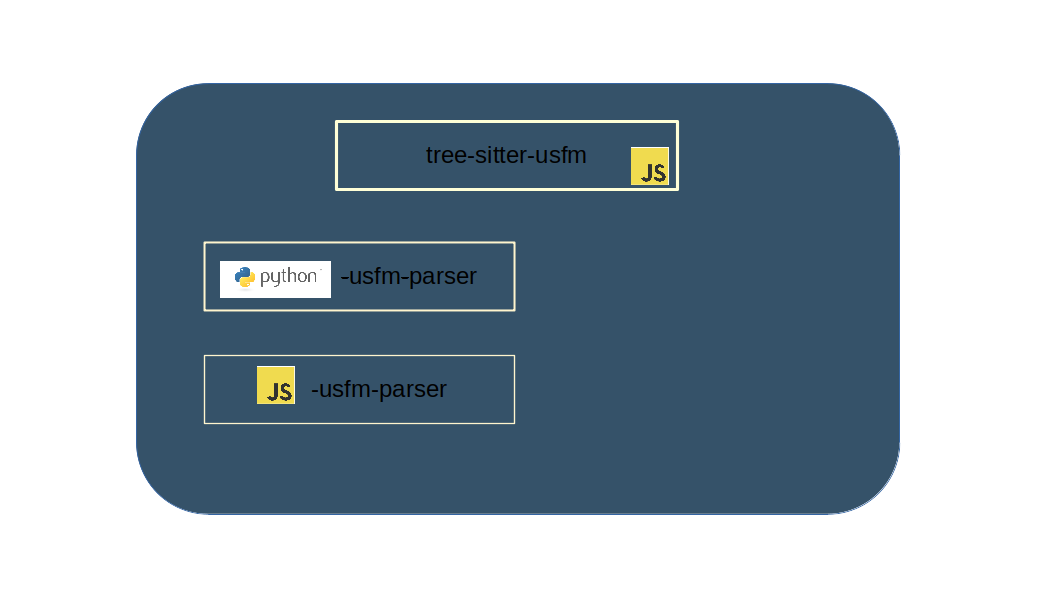
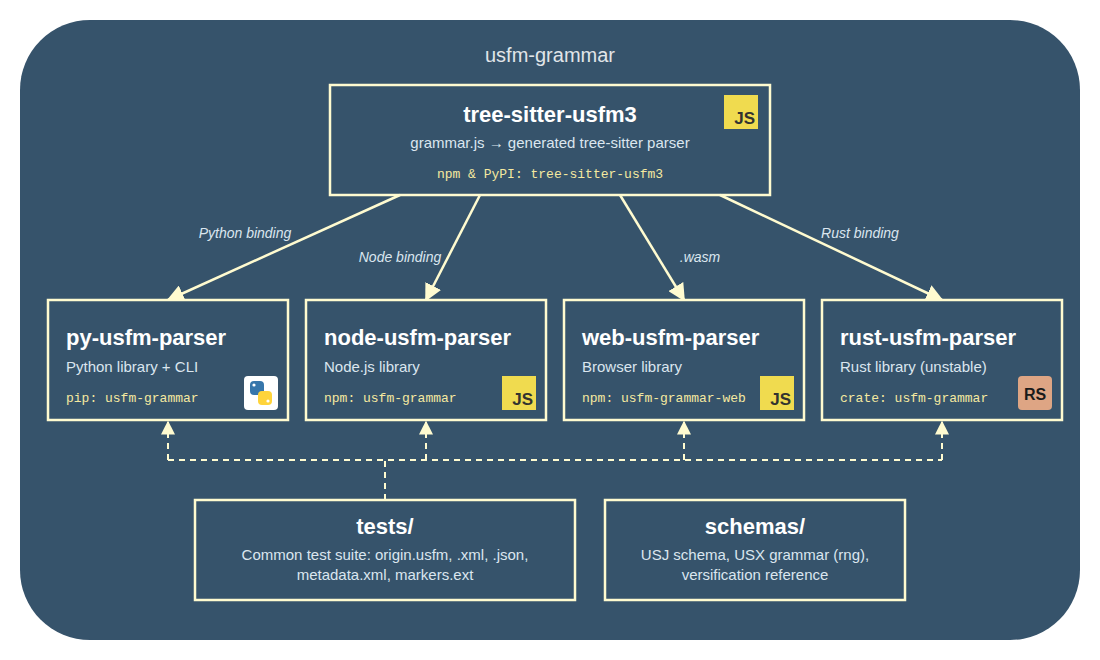
Docs n schema update (#439)
* update architecture.md and components diagram

* Add a context file for the AI to refer

* Test the usx.rng update and document results

diff --git a/docs/usx-schema-compliance-report.md b/docs/usx-schema-compliance-report.md
@@ -1,0 +1,142 @@
+# USX schema compliance: before vs after 303d1f0
+### Dated: Oct 9, 2026
+
+**Commit under test:** `303d1f0` "Update vendored usx.rng from tcdocs 3.1.2 (#427)". This commit only replaces `schemas/usx.rng`; no converter code changes. "Before" is `303d1f0^:schemas/usx.rng` (July 2023 copy, 1,689 lines). "After" is `303d1f0:schemas/usx.rng` (tcdocs 3.1.2 @ b76e9f0, 2,161 lines). Both runs use the same converter outputs.
+**Date:** 2026-10-09 · **Branch:** docs-n-schema-update (working tree)
+
+## Method
+
+| Item | Detail |
+|---|---|
+| Test cases | 275 directories under `tests/` that have an `origin.usfm` |
+| Documents validated | 1,814 per schema: 270 test-suite USX files (269 `origin.xml` + 1 `origin.usx`) and 6 × ~257 generated files |
+| Generated USX | For each module (Python `py-usfm-parser/src`, Node `node-usfm-parser/src`, Web `web-usfm-parser/src` with wasm): **USFM→USX** (`origin.usfm` → parse → `to_usx`/`toUSX`) and **USJ→USX** (`origin.json` → USJ→USFM → parse → USX). A `markers.ext` file is passed in when the test case has one. Conversion runs with `ignore_errors=True` so that invalid inputs also produce output. |
+| Validators | **Jing** 20241231 (reference RelaxNG implementation) and **lxml/libxml2** (what the pytest suite uses). They gave the same verdict on all 3,628 document×schema checks. Error messages below are from Jing; lxml's are too vague to diagnose. |
+| Populations | "Valid USFM" = the suite's own positive set (`metadata.xml` `validated` plus the override list in `py-usfm-parser/tests/__init__.py`): 186 cases. "Invalid" = the other 89 (negative tests). The headline numbers use only valid inputs with a clean (error-free) conversion. |
+
+## 1. Headline: valid-USFM cases
+
+| Producer | Input | Validated | Pass BEFORE | Pass AFTER | AFTER, ignoring ext-marker-only failures¹ | Fixed by commit | Regressed by commit |
+|---|---|---|---|---|---|---|---|
+| Test suite | origin.xml | 182 | 157 (86.3%) | **166 (91.2%)** | 178 (97.8%) | 11 | 2 |
+| Python | USFM→USX | 186 | 154 (82.8%) | **161 (86.6%)** | 173 (93.0%) | 9 | 2 |
+| Python | USJ→USX | 184² | 152 (82.6%) | **158 (85.9%)** | 170 (92.4%) | 8 | 2 |
+| Node | USFM→USX | 186 | 154 (82.8%) | **162 (87.1%)** | 174 (93.5%) | 10 | 2 |
+| Node | USJ→USX | 184² | 151 (82.1%) | **159 (86.4%)** | 171 (92.9%) | 10 | 2 |
+| Web | USFM→USX | 186 | 154 (82.8%) | **162 (87.1%)** | 174 (93.5%) | 10 | 2 |
+| Web | USJ→USX | 184² | 151 (82.1%) | **159 (86.4%)** | 171 (92.9%) | 10 | 2 |
+
+¹ The only failures are `\z*`, `\s5` or `\k-s/\k-e` styles. The 3.1.2 schema has no extension or z-namespace provision, so these files can never validate whatever the converter does.
+² `specExamples/extended/bookIntroductions3` has no `origin.json`. For `special-cases/empty-attributes`, USJ→USFM writes `lemma=""ആകാശം""` (unescaped quotes), so the USFM it produces doesn't parse. This happens in all three modules.
+
+**Node and Web give identical results in every cell.** Python is one file behind on each path because of finding **D** below.
+
+## 2. What the schema update changed (all populations)
+
+### Fixed: invalid before, valid after (13 cases)
+| Case | Producers | Error under the old schema |
+|---|---|---|
+| advanced/figureInNote | all 7 | `figure` not allowed in a note |
+| biblica/CategoriesOnNotes | origin, node, web (py still fails, see D) | `category` attribute on `note` |
+| biblica/CrossRefWithPipe | origin, node×2, web×2, py USFM | `href` attribute (`\xt` link) |
+| bugfixes/new-marker-ipc, -ta, -wl | all 7 | new 3.1 styles (`ipc`, `ta`, `wl`) |
+| specExamples/footnote | all 7 | `efe` not in `Footnote.style.enum` (the #423 blocker) |
+| usfmjsTests/chunk_footnote | all 7 | text not allowed here |
+| usfmjsTests/ts, ts_2 | all 7 | `ms` (`\ts`) not allowed at that position |
+| bugfixes/tcc | origin.xml | `tcc` cell style |
+| advanced/periph *(invalid)* | origin.xml | periph style |
+| usfmjsTests/usfm-body-testF *(invalid)* | USFM→USX in all 3 | `ms` placement |
+
+### Regressed: valid before, invalid after (8 cases)
+| Case | Suite says | Producers | Error under the new schema | Assessment |
+|---|---|---|---|---|
+| paratextTests/NoErrorsShort | valid³ | all 7 | `usx` incomplete: missing required `chapter` | The schema is stricter now. The input is only `\id` and `\usfm`. Expected, and noted in the commit message. |
+| special-cases/empty-book | valid³ | all 7 | same | same |
+| mandatory/c | invalid | USFM→USX ×3 | missing `chapter` | Negative test; now correctly rejected |
+| paratextTests/ParaOutOfOrder | invalid | USFM→USX ×3 | `note` not allowed yet | Negative test |
+| specExamples/cross-ref | invalid | node, web USFM | `style` invalid | Negative test |
+| usfmjsTests/missing_chapters | invalid | node, web USFM | `book@code` pattern | Negative test |
+| usfmjsTests/tstudio | invalid | USFM→USX ×3 | `number="091"` fails `[1-9][0-9]*` | Negative test (leading zeros) |
+| introductions/bad/test1 | invalid | origin.xml | `style` invalid | Negative test |
+
+³ The commit message says these are `validated=fail` in metadata, but the suite's override handling puts them in the positive set. The pytest schema test would therefore count them as failures. Mark them expected-fail or move them to the negative set.
+
+**Net result: the commit is a clear improvement.** All 8 regressions are inputs the newer spec correctly rejects (no `\c`, leading-zero numbers, out-of-order markers). None are converter regressions.
+
+## 3. What still fails after the update: valid-USFM cases, by root cause
+
+The useful test here is whether the reference `origin.xml` passes. If `origin.xml` passes and our output fails, the bug is ours. If both fail, the problem is in the test data or the spec.
+
+| # | Root cause | Cases | Py | Node | Web | origin.xml | Owner |
+|---|---|---|---|---|---|---|---|
+| A | `\z*` custom markers, `\zaln-s/e`, `\k-s/e`, `\s5` styles not in the schema enums | 13 | ✗ | ✗ | ✗ | ✗ (12) | Spec limitation / non-standard test data |
+| **B** | **`vid` written on every `<row>`; schema (and origin.xml) put it on `<table>`** | 5 | ✗ | ✗ | ✗ | ✓ | **Converter bug, all 3 modules** |
+| **C** | **`<para style="rem">` / `<para style="lit">` nested inside the previous `<para>`** | 3 | ✗ | ✗ | ✗ | ✓ / n/a | **Converter bug, all 3 modules** |
+| **D** | **`<ref style="ref" loc=…>`: schema forbids `style` on `ref`** | 2 | ✗ | ✓ | ✓ | ✓ | **Python bug** |
+| E | `<list>` wrapper element (list milestones) is not in the schema | 1 | ✗ | ✗ | ✗ | ✗ | Test data / proposed feature |
+| F | `\vid\|h="…"` is emitted as `h` attribute on `<para>`; the schema only allows `h` on `<ms style="vid">` | 1 | ✗ | ✗ | ✗ | ✗ | Converter and test data both need review |
+| G | Book with no chapter (`\id` + `\usfm` only) | 2 | ✗ | ✗ | ✗ | ✗ | Expected (see ³) |
+| **H** | **`altnumber="3 "` (trailing space) on USJ→USX** | 1 | ✓ | ✗ | ✗ | ✓ | **JS bug (node + web)** |
+
+### Details and evidence
+
+**B. Table `vid` on rows** (`specExamples/table`, `bugfixes/tcc`, `bugfixes/thc`, `bugfixes/empty-table-cell`, `paratextTests/MissingColumnInTable`)
+```xml
+<!-- ours (all 3 modules) -->
+<table><row style="tr" vid="MAT 136:12-83">…</row><row style="tr" vid="MAT 136:12-83">…
+<!-- origin.xml / schema (Table has optional @vid; row allows only @style) -->
+<table vid="MAT 136:12-83"><row style="tr">…
+```
+Jing: `found attribute "vid", but no attributes allowed here`. This is the largest real converter defect: about 2.7% of valid cases.
+
+**C. Paragraph nested inside paragraph** (`bugfixes/rem_with_char`, `bugfixes/custom_markers`, `specExamples/character`)
+```usfm
+\p
+\rem comment \nd Jesus \nd* to \em test \em*.
+```
+becomes `<para style="p"><para style="rem">comment …</para>…`. The same happens to `\lit` after verse text. Jing: `element "para" not allowed here`. The output is structurally wrong, not just a style naming issue. The likely cause is in the shared grammar/tree shape, since all three generators emit it.
+
+**D. Python only: `ref@style`.** [usx_generator.py:490](../py-usfm-parser/src/usfm_grammar/usx_generator.py#L490) has `ref_xml_node.set("style", "ref")`. Node/Web `usxGenerator.js` don't set it, and origin.xml doesn't have it. Removing that line makes `biblica/CategoriesOnNotes` and `biblica/CrossRefWithPipe` pass, which brings Python level with Node/Web.
+
+**H. JS only: altnumber whitespace** (`specExamples/chapter-verse`, USJ path). JS USJ→USFM writes `\va 3 \va*` with a space before the closing marker. Python writes `\va 3\va*`. The JS USX generator then keeps the space, so the output gets `altnumber="3 "`, which fails the verse-number pattern. The fix belongs in the JS USJ→USFM writer, and ideally the USX generator should trim too.
+
+**F. `\vid` with `h`.** The input `\vid|h="Mark" ref="MRK 4:26"\*` becomes `<para style="s1" h="Mark" vid="MRK 4:26">`. In 3.1.2, `Milestone.style.enum` declares `vid` with `usfm:propattribs="ref h?"`. Spec review needed: either keep it as `<ms style="vid" ref="…" h="…"/>` or drop `h` when folding it into `para@vid`. origin.xml has the same issue.
+
+**E. `<list>` element.** Both origin.xml and our output wrap list items in `<list>…</list>`. The 3.1.2 schema has no such element: `element "list" not allowed anywhere`.
+
+**A. Extension markers.** The 3.1.2 RNG has closed style enums and no z-namespace pattern (`grep` finds no `z` pattern). Affected: `\zaln-s/e` (24 cases across all populations), `\k-s/e` (6), `\s5` (27, mostly negative tests), and the `\z…` markers in `custom_markers` and `specExamples/milestone` (`\zms`). These cannot pass schema validation unless the spec adds an extension mechanism, or we filter or transform z-markers on USX export.
+
+## 4. Invalid-USFM (negative) cases, for reference
+
+| Producer | Input | Validated | Pass BEFORE | Pass AFTER |
+|---|---|---|---|---|
+| Test suite | origin.xml | 87 | 32 | 32 |
+| Python | USFM→USX | 87 | 57 | 55 |
+| Python | USJ→USX | 64 | 36 | 36 |
+| Node | USFM→USX | 79 | 51 | 47 |
+| Node | USJ→USX | 61 | 30 | 30 |
+| Web | USFM→USX | 79 | 51 | 47 |
+| Web | USJ→USX | 61 | 30 | 30 |
+
+These outputs are produced with `ignore_errors`, so schema failures here are mostly expected. Observations:
+- **Test-suite origin.xml files for negative tests use Paratext-only markup** (`status="invalid"`, `closed=` on `note`/`sidebar`, `<unmatched>` elements, `<verse>` with `eid` but no `sid`). These account for most `origin.xml` failures and are not USX 3.1.2.
+- Node/Web pass fewer here than Python (47 vs 55) because their `book@code`, `sid` and `eid` values can be invalid when `\id` is missing or misplaced (e.g. `advanced/periph`, `paratextTests/IdMarkerInMiddleOfBook`, `usfmjsTests/invalid`).
+- **Robustness gap: JS conversion crashes on error trees.** With `ignoreErrors=true`, Node and Web throw on 15 inputs. Python throws on only 4 (`NoErrorsEmptyBook` and `NoErrorsPartiallyEmptyBook`, both paths). JS-only throws: `advanced/nesting1`, `biblica/PublishingVersesNotClosed`, `paratextTests/CharStyleCrossesVerseNumber` (×2), `InvalidRubyMarkup` (×2), `MarkersMissingSpace`, `MissingRequiredAttributesReported` (×2), `usfmjsTests/acts-1-20.aligned.crammed.oldformat`, `acts_1_milestone.oldformat`. All are negative tests, but it's still a parity difference.
+
+## 5. Recommendations (by impact)
+
+1. **Fix B (table `vid`) in all three generators.** Move `vid` from each `<row>` to `<table>`. This fixes 5 valid cases (+2.7%) per module and path.
+2. **Fix C (nested `rem`/`lit` para).** Most likely in the grammar, since all three modules output the same shape. This fixes 3 cases and removes structurally wrong output.
+3. **Python: drop `style="ref"` on `<ref>`** ([usx_generator.py:490](../py-usfm-parser/src/usfm_grammar/usx_generator.py#L490)). This fixes 2 cases and gets Python to parity with Node/Web.
+4. **JS: stop writing a space before `\va*` (and `\vp*`, `\ca*`, `\cp*`) in USJ→USFM, and trim in the USX generator.**
+5. **Test-suite hygiene:** reclassify `NoErrorsShort` and `empty-book` as expected-fail for schema tests. Decide on spec-compliant shapes for `\vid|h` and `<list>`. Consider whether USX export should drop or encode `\z*`/`\zaln`, or whether the schema tests should skip them.
+6. If 1–4 are done, valid-case compliance for the generated output would be about 173–174/186 (93%). The remaining failures would all come from spec limitations or test data.
+
+## Reproducing
+
+1. Extract both schemas: `git show 303d1f0^:schemas/usx.rng > usx_before.rng` and `git show 303d1f0:schemas/usx.rng > usx_after.rng`.
+2. For each test directory with an `origin.usfm`, convert to USX in each module, passing in `markers.ext` when the directory has one:
+   - USFM→USX: `USFMParser(usfm, markers_ext=…).to_usx(ignore_errors=True)` in Python; `new USFMParser(usfm, null, null, null, null, ext).toUSX(true)` in Node and Web (Web needs `await USFMParser.init("./tree-sitter-usfm.wasm", "./tree-sitter.wasm")` first).
+   - USJ→USX: the same, but construct the parser from `origin.json` (`from_usj=` / the `fromUsj` argument).
+3. Validate every generated file and every `origin.xml` against both schemas with Jing (`java -cp jing.jar:xercesImpl.jar com.thaiopensource.relaxng.util.Driver usx_after.rng <files…>`) and/or lxml `etree.RelaxNG`.
+4. Classify each case as valid or invalid with `is_valid_usfm()` from `py-usfm-parser/tests/__init__.py`.

diff --git a/docs/architecture.md b/docs/architecture.md
@@ -5,29 +5,27 @@ This document describes the high-level architecture of usfm-grammar. This is int
 
 ## Bird's Eye View
 
-![usfm-grammar-ecosystem](./images/usfm-grammar-context.png)
-*context diagram*
-
-Usfm-grammar is a grammar implementation, modelling the [USFM](https://github.com/ubsicap/usfm) markup language, popularly used to represent the scripture(Bible) and meta-scripturual contents. It also include parsers and editor-plugins built on top on this grammar to be able to convert USFM to other formats like JSON, CSV, USX(XML counter part of USFM) etc or be able to do syntax highlighting, code folding etc on editors.
+Usfm-grammar is a grammar implementation, modelling the [USFM](https://docs.usfm.bible/usfm/3.1.2/index.html) markup language, popularly used to represent the scripture(Bible) and meta-scripturual contents. It also include parsers and editor-plugins built on top on this grammar to be able to convert USFM to other formats like USJ(JSON), CSV, USX(XML counter part of USFM) etc or be able to do syntax highlighting, code folding etc on editors.
 
 Implemented Using
 * Tree-sitter
 * Python
-* Javascript
+* Javascript: node and web
 
 [Tree-sitter](https://tree-sitter.github.io/tree-sitter/) is a parser generator. We model the USFM language in the Context-Free-Grammar, as required by it, and it can build parsers that can create syntax tree for a source USFM file. 
 
-![usfm-grammar-arch](./images/usfm-grammar-components.png)
-*Container diagram*
+![usfm-grammar components](images/usfm-grammar-components.png)
+
 
 ## Code Map
 
 This section talks briefly about various important directories and files. It would give you ideas on where to find things you are looking for, in the code base.
 
-### usfm-grammar/tree-sitter-usfm
+
+### usfm-grammar/tree-sitter-usfm3
 
 This module contain the grammar. Here we define and generate the grammar to be used by other modules and tools.
-This module is published on npm indivdually as `tree-sitter-usfm`.
+This module is published individually as `tree-sitter-usfm3` on npm and PyPI, which provide the node and python bindings of the grammar used by the parser modules.
 
 **grammar.js**: The file where we model the USFM language. Here we define the tokens, synatx rules and the structure of the output syntax-tree(AST).
 
@@ -39,7 +37,7 @@ This module is published on npm indivdually as `tree-sitter-usfm`.
 
 Useful commands while working in this module:
 ```
-cd ./tree-sitter-usfm
+cd ./tree-sitter-usfm3
 export PATH=$PATH:./node_modules/.bin #to be able to use the CLI
 
 tree-sitter generate #To re-generate the grammar after updation to grammar.js
@@ -47,11 +45,22 @@ tree-sitter test     # to run all test in test/corpus
 tree-sitter test --update # to update all test files with the current output
 ```
 
+### usfm-grammar/tests
+These test data is obtained from the test suite maintained by USFM/X committee in [this repo](https://github.com/usfm-bible/tcdocs). These test suite samples were originally compliant with the test suite in the USFM specs repo. Later more tests were added to the `bugfixes` submodule. For cases were the validity of the test case as given in the souce is not acceptable for us, it is over ridden in the python test module's `__init__.py` or node and web modules' `config.js`.
+
+A test directory, which is one unit of this test suite, contains the following files:
+
+- **origin.usfm**. This is the base USFM file to be processed.
+- **origin.xml**. This is the corresponding USX file.
+- **origin.json**. This is the USJ for the USFM and USX.
+- **metadata.xml**. This is the metadata file describing this test, including the validity(pass/fail).
+- **markers.ext**. Optionally in newly added test samples for user defined markers.
+
 ### usfm-grammar/py-usfm-parser
 
 This is a parser implemented to use the grammar to obtain syntax tree(AST) for a USFM file and then convert the AST to other formats via APIs(methods or CLI). This module has the python implementation of the parser and is published on pip.
 
-**src/grammar_rebuild.py** : To be run upon any updations on the actual grammar implementation. This will create the python binding for the grammar at `../tree-sitter-usfm` and store them as `.so` file within this module. Then on, only this `.so` file is required to run the parser and it is not dependant on the outer module, `../tree-sitter-usfm`.
+It uses the python bindings of tree-sitter (`tree-sitter`) and the grammar from PyPI (`tree-sitter-usfm3`), as specified in `pyproject.toml`. To use a grammar still in development, install it from the local module instead, `pip install -e ../tree-sitter-usfm3`.
 
 **src/usfm_grammar/**: This is where the parser is implemented. It reads USFM, converts to AST, queries the AST, handles errors, converts specific contents of AST to other formats.
 * **src/usfm_grammar/usfm_parser.py**:
@@ -60,12 +69,103 @@ This is a parser implemented to use the grammar to obtain syntax tree(AST) for a
 	Contains the USXGenerator class that contains, AST node to USX(xml) node conversion method and its supporting methods and data types. Used internally by USFMParser class. Not exposed to user.
 * **src/usfm_grammar/usj_generator.py**:
 	Contains the USJGenerator class that contains, AST node to USJ(dict/json) object conversion method and its supporting methods and data types. Used internally by USFMParser class. Not exposed to user.
+* **src/usfm_grammar/usfm_generator.py**:
+	Contains the USFMGenerator class for the reverse conversions, USJ, USX and Bible NLP formats back to USFM. Used internally by USFMParser class. Not exposed to user.
+* **src/usfm_grammar/list_generator.py**:
+	Logics for USJ to list(table) and Bible NLP format conversions, that first relies on the USJ format.
+* **src/usfm_grammar/filters.py**:
+	Implements the removal or inclusion of select components in a USJ.
+* **src/usfm_grammar/validator.py**:
+	Checks the compliance of the USJ to the schema and validity of USFM via attempting to parse it via our grammar. Also include an experimental attempt to correct the common errors in an input USFM.
+* **src/usfm_grammar/markers_ext_reader.py**:
+	Processings required for the support of `markers.ext` file that allows users to define and use custom markers in USFM.
+* **src/usfm_grammar/__main__.py**:
+	Provide a CLI interface to all the APIs of the library available via code.
+* **tests/**:
+	Uses pytest framework and test samples in the common test suite: `usfm-grammar/tests` that is shared by the node and web modules. These test suite samples were originally compliant with the test suite in the USFM specs repo. Later more tests were added to the `bugfixes` submodule. For cases were the validity of the test case as given in the souce is not acceptable for us, it is over ridden in the python test module's `__init__.py`
 
-**IPython notebook**: Located in the docs/ folder. This serves as the documentation on how to use the python library.
+<!-- **IPython notebook**: Located in the docs/ folder. This serves as the documentation on how to use the python library. -->
+Some example usages of the librabry is documented in the `README.md` file of this folder and more info can be found in the `usfm-grammar/py-usfm-parser/tests`.
 
 
+### usfm-grammar/node-usfm-parser
 
-### usfm-grammar/javascript-usfm-parser
+Just like the py-usfm-parser, this is a parser implemented to use the grammar to obtain syntax tree(AST) for a USFM file and then convert the AST to other formats via APIs(methods or CLI). This module has the javascript implementation of the parser and is published on npm (as `usfm-grammar`, versions 3.x.x). It uses the node bindings of tree-sitter (`tree-sitter`) and the grammar from npm (`tree-sitter-usfm3`).
 
-Just like the py-usfm-parser, this is a parser implemented to use the grammar to obtain syntax tree(AST) for a USFM file and then convert the AST to other formats via APIs(methods or CLI). This module has the javascript implementation of the parser and is published on npm (as usfm-grammar-3.x.x).
+The source files mirror the python module, one-to-one, so a change in one implementation can be easily ported to the others.
 
+**src/**: This is where the parser is implemented.
+* **src/index.js**:
+	Entry point of the library. Exports `USFMParser`, `Filter`, `Validator` and `ORIGINAL_VREF`.
+* **src/usfmParser.js**:
+	Contains the USFMParser class that uses the grammar to obtain the AST and calls generator classes to convert to other formats. Also accepts USJ or USX as input and converts them back to USFM.
+* **src/usxGenerator.js**:
+	Contains the USXGenerator class for AST node to USX(xml DOM, via `@xmldom/xmldom`) conversion. Used internally by USFMParser class.
+* **src/usjGenerator.js**:
+	Contains the USJGenerator class for AST node to USJ(json) object conversion. Used internally by USFMParser class.
+* **src/usfmGenerator.js**:
+	Contains the USFMGenerator class for the reverse conversions, USJ, USX and Bible NLP formats back to USFM.
+* **src/listGenerator.js**:
+	Logics for USJ to list(table) and Bible NLP format conversions, that first relies on the USJ format.
+* **src/filters.js**:
+	Implements the removal or inclusion of select components in a USJ.
+* **src/validator.js**:
+	Checks the compliance of the USJ to the schema(via `ajv`) and validity of USFM via attempting to parse it via our grammar. Also include an experimental attempt to correct the common errors in an input USFM.
+* **src/markersExtReader.js**:
+	Processings required for the support of `markers.ext` file that allows users to define and use custom markers in USFM.
+* **src/queries.js**:
+	The tree-sitter queries used on the AST, by the generators, kept together in one place.
+* **src/utils/**:
+	Supporting data: marker lists(`markers.js`), USJ/USX type groupings(`types.js`), the USJ schema(`usjSchema.js`), the output formats enum(`format.js`) and the versification reference list(`vrefs.js`).
+* **dist/**:
+	The CommonJS and ES module builds generated by `parcel`, which is what gets published.
+* **test/**:
+	Uses mocha framework and the common test suite: `usfm-grammar/tests`. The test samples to use and the overrides on their validity are configured in `test/config.js`.
+
+Some example usages of the librabry is documented in the `README.md` file of this folder.
+
+Useful commands while working in this module:
+```
+cd ./node-usfm-parser
+npm install
+npm test       # run all tests
+npm run lint   # run eslint on src/
+npm run build  # build the dist/ bundles
+```
+
+### usfm-grammar/web-usfm-parser
+
+The browser version of the javascript parser, published on npm as `usfm-grammar-web`. Its `src/` has the same files and classes as the node-usfm-parser (written as ES modules), so the descriptions above apply here too. The differences are:
+
+* It uses `web-tree-sitter`, which runs the parser as WebAssembly instead of native node bindings. A copy of its JS file is kept in **src/web-tree-sitter/**.
+* **tree-sitter.wasm** and **tree-sitter-usfm.wasm**: The tree-sitter runtime and our grammar compiled to WebAssembly. These are shipped along with the package. `tree-sitter-usfm.wasm` has to be re-generated from `../tree-sitter-usfm3` upon any updations on the grammar, and `tree-sitter.wasm`(along with `src/web-tree-sitter/tree-sitter.js`) is copied from the installed `web-tree-sitter` package.
+* As loading the wasm files is asynchronous, `USFMParser.init()` (and `Validator.init()`) must be awaited, with the paths or URLs of the two wasm files, before creating any instances.
+* Node specific modules like `fs`, `path` and `process` are aliased out in `package.json`, so the bundle can run in browsers.
+* **test.js** and **bench.js**: Scripts for quick manual checks and performance benchmarking(via `mitata`) respectively.
+* **test/**: Same as in the node module, mocha tests on the common test suite, with configurations in `test/config.js`.
+
+Useful commands while working in this module:
+```
+# re-generate the grammar wasm
+cd ./tree-sitter-usfm3
+export PATH=$PATH:./node_modules/.bin
+tree-sitter generate
+tree-sitter build --wasm
+cp tree-sitter-usfm3.wasm ../web-usfm-parser/tree-sitter-usfm.wasm
+
+# copy the web-tree-sitter runtime
+cd ../web-usfm-parser
+npm install
+cp node_modules/web-tree-sitter/tree-sitter.js src/web-tree-sitter/
+cp node_modules/web-tree-sitter/tree-sitter.wasm ./
+
+npm test       # run all tests
+npm run lint   # run eslint on src/
+npm run build  # build the dist/bundle.mjs
+```
+
+### CI/CD for testing and publishing
+
+Defined in `.github/workflows`.
+
+- **Selective test running**. Some of the tests are excluded via the command specified in the `Run-Python-tests` job and they are commended out or excluded in the node and web tests as well. These remaining tests are those to be checked for mandatory passing when making any new updates in the application modules.

diff --git a/CLAUDE.md b/CLAUDE.md
@@ -1,0 +1,4 @@
+# Project context
+
+See @docs/architecture.md for the codebase architecture.
+See @docs/Dev_notes.md for development instructions and common commands.
